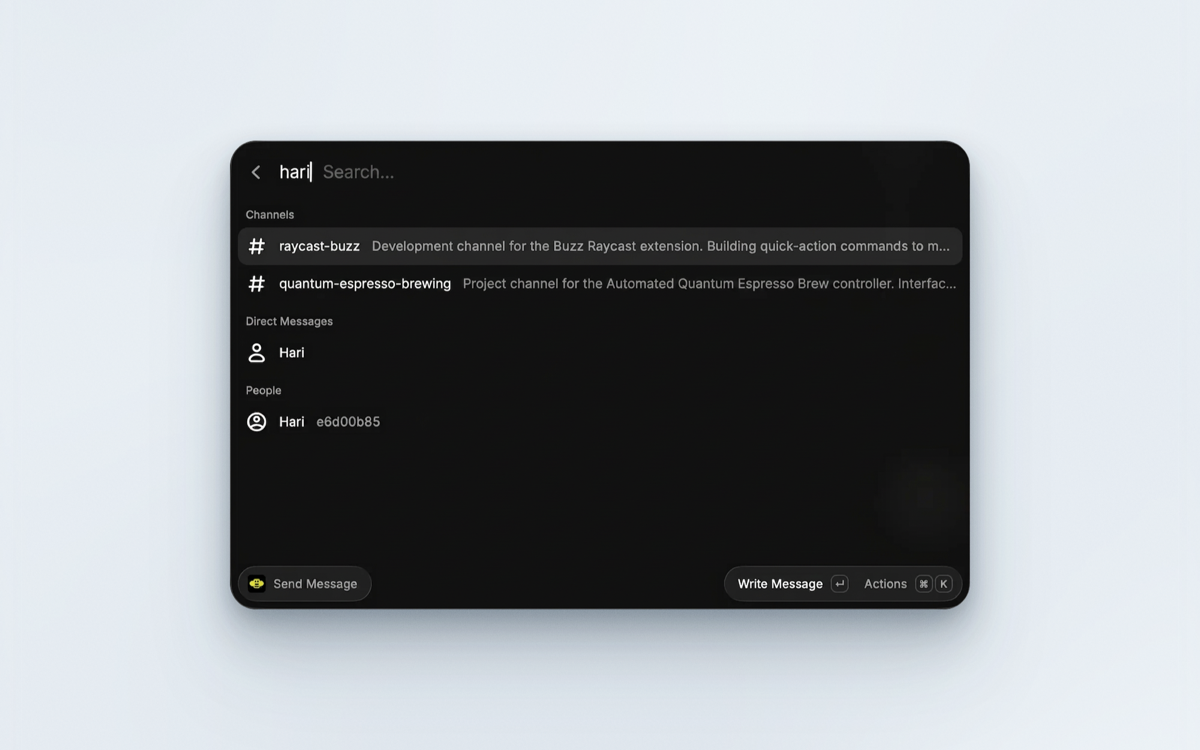
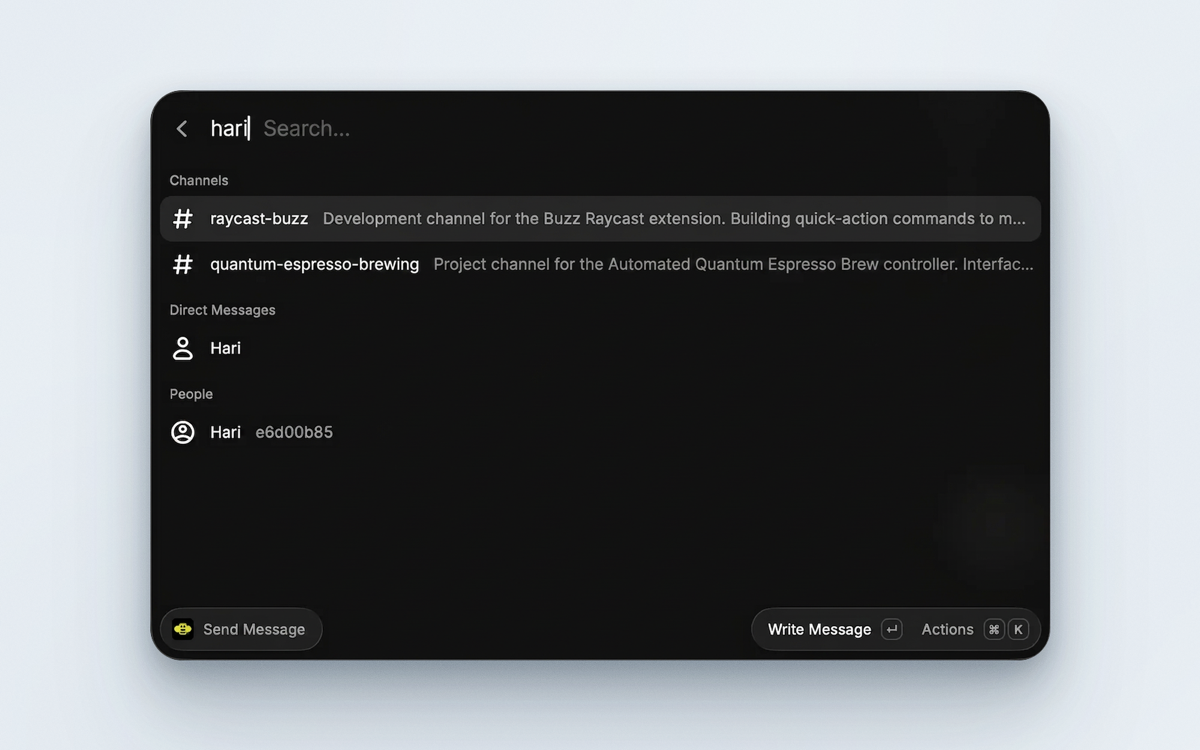
fix: add CHANGELOG and reframe the Store screenshots
Two Raycast CI checks failed on the first submission.

Changelog Enforcer wanted a CHANGELOG.md for a new extension; it uses the
{PR_MERGE_DATE} placeholder Raycast substitutes on merge.

Metadata Image Enforcer wants the window to occupy more of the frame:
padding was 18.7% top/bottom and 19.1% left/right against a required
8-17%, target 12%. Recropped from the untouched originals so the window
sits at ~12% on every edge, resampled once rather than twice.

Changed region(s): [[0.0925, 0.1227, 0.8942, 0.9507]]

diff --git a/CHANGELOG.md b/CHANGELOG.md
@@ -1,0 +1,13 @@
+# Buzz Changelog
+
+## [Initial Version] - {PR_MERGE_DATE}
+
+- Search Channels: browse every channel on your relay, open one in the Buzz app, or drill into its
+  recent messages to read and react. Thread replies are collapsed into their root with a reply
+  count, matching how the Buzz app displays a channel.
+- Search Messages: NIP-50 full-text search across the channels you can access, with a deep link
+  that opens a hit in the Buzz app anchored to the right message.
+- Send Message: pick a channel, an existing direct-message conversation, or a person or agent found
+  by name, then compose. All three lead to the same composer.
+- Set Status: NIP-38 status with reusable presets and an emoji picker.
+- Requests are signed locally with NIP-98; the private key never leaves the machine.
